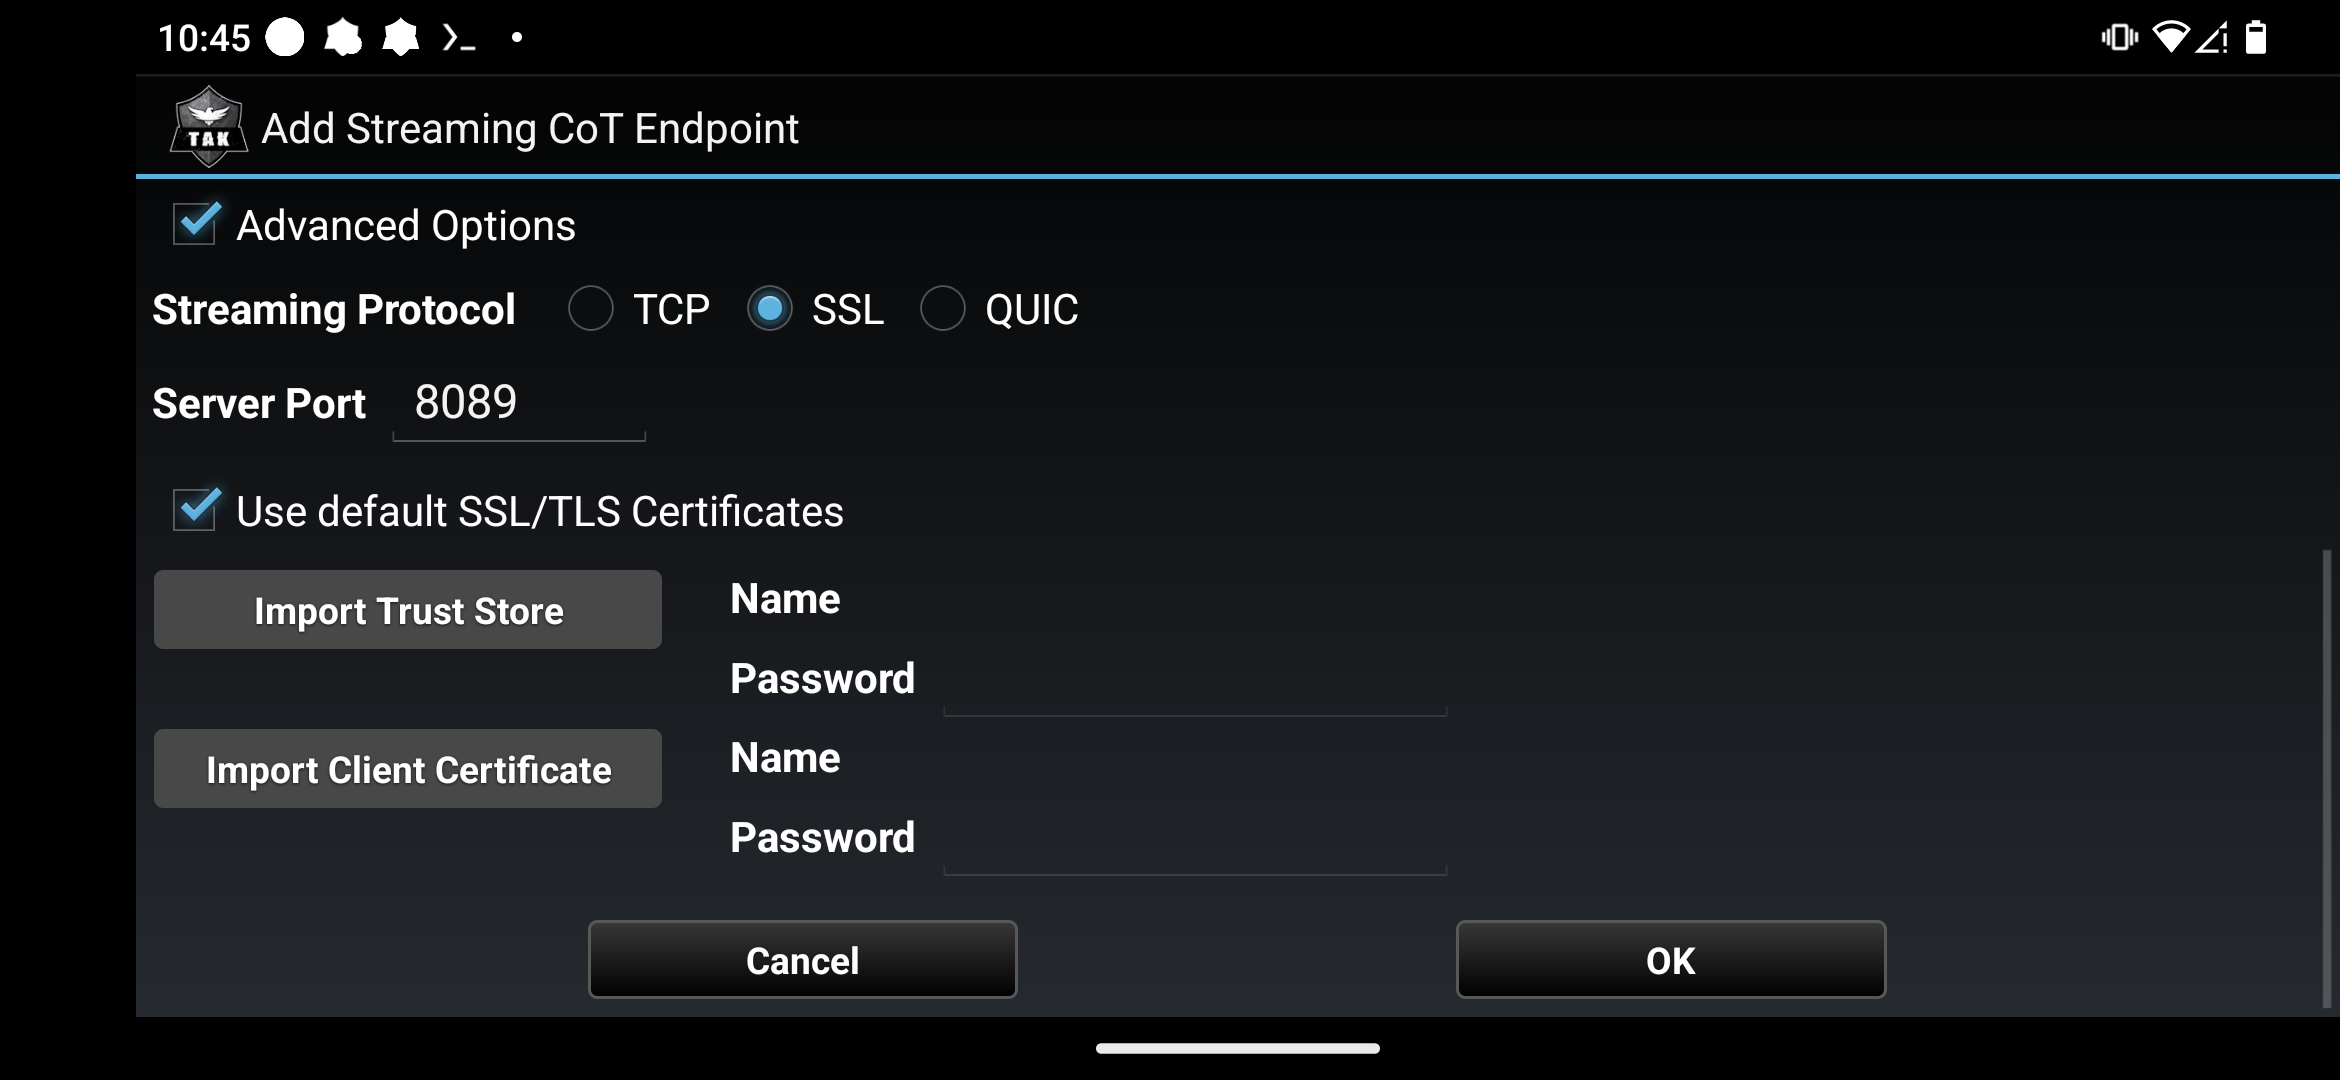
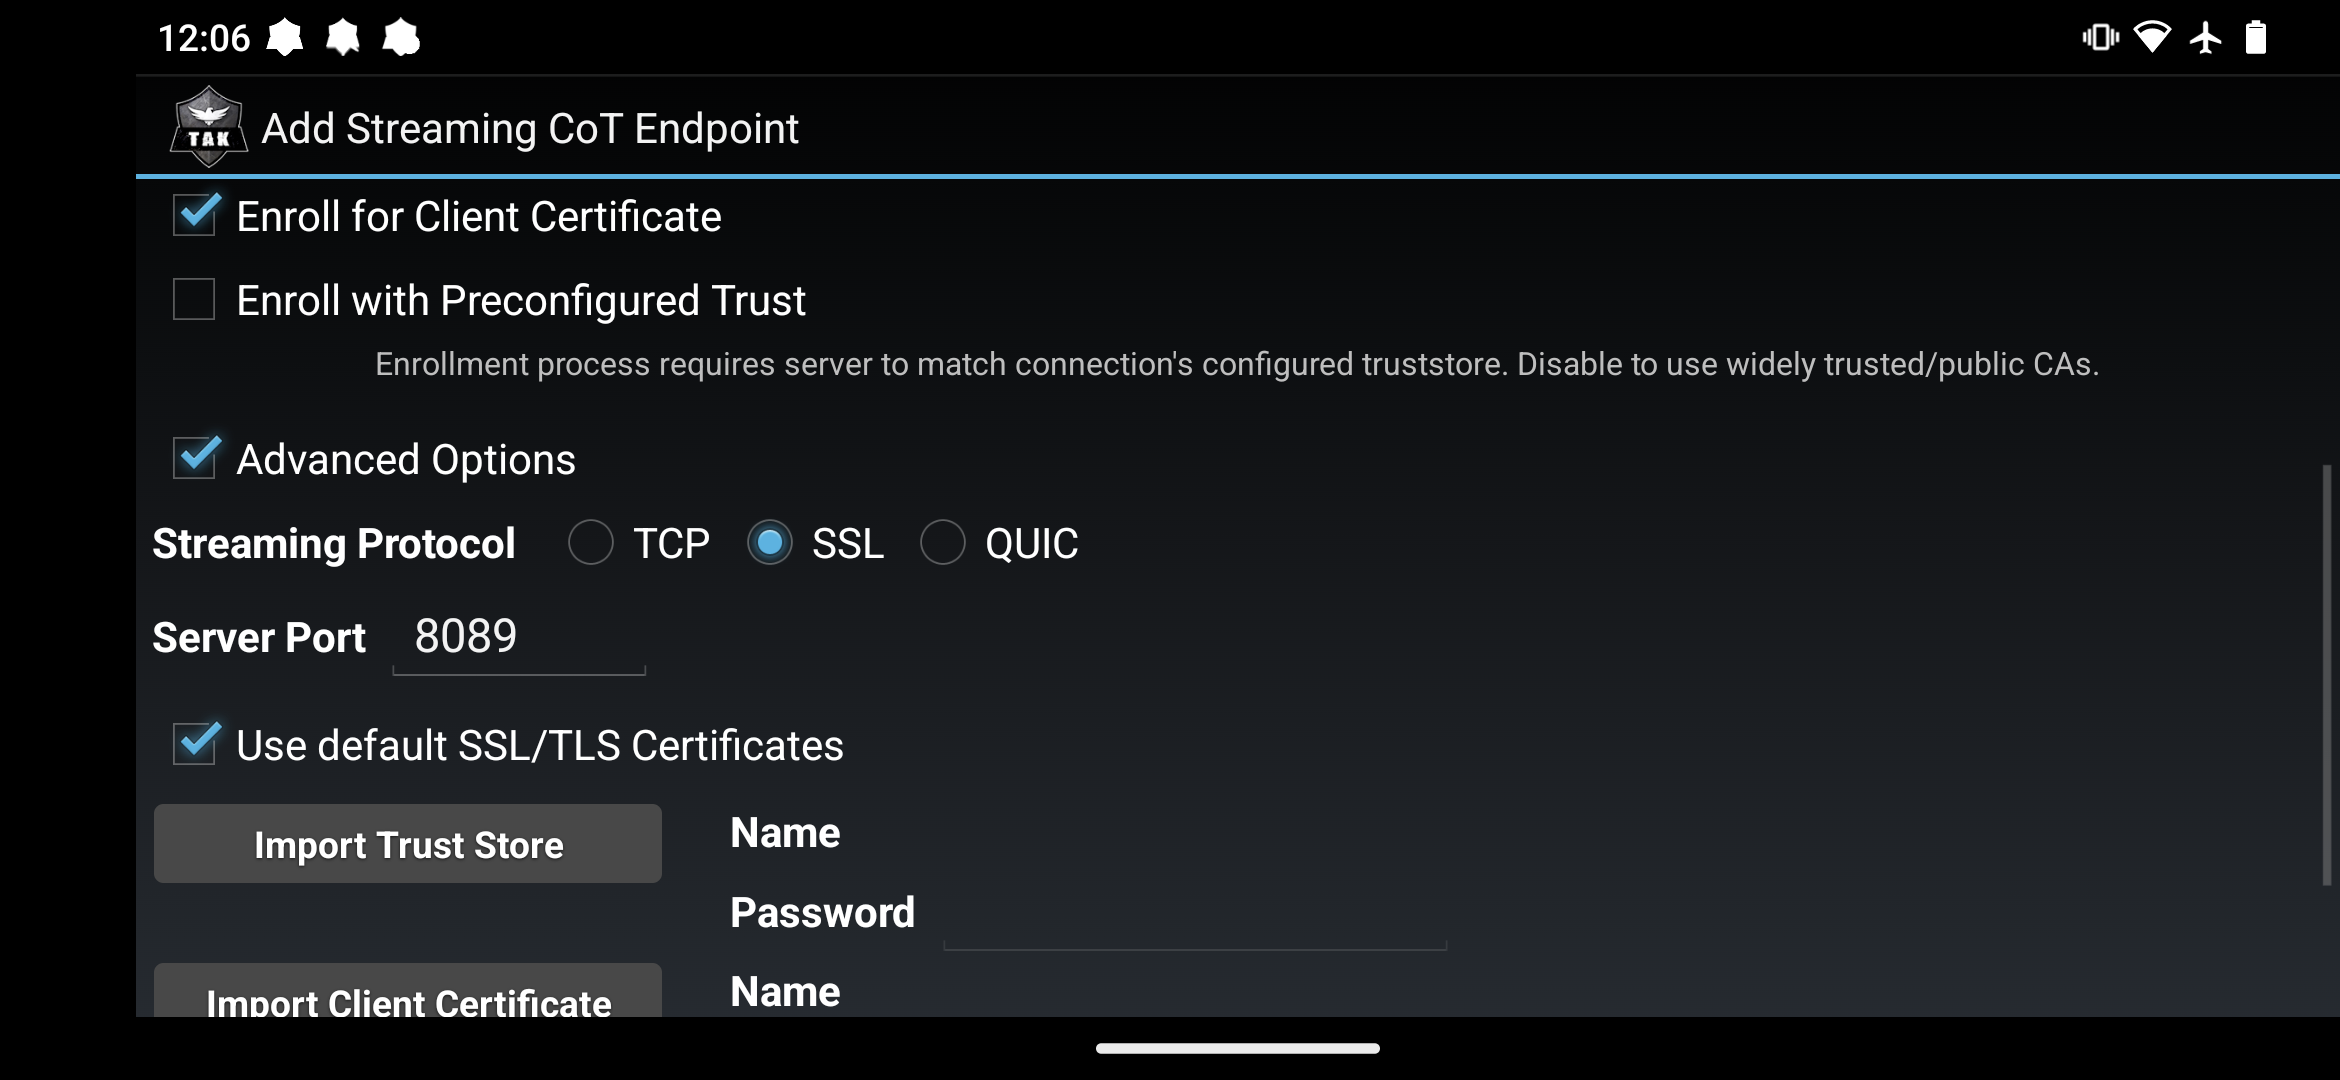
Updated certificate enrollment docs

diff --git a/docs/certificate_enrollment.md b/docs/certificate_enrollment.md
@@ -12,7 +12,7 @@ have an administrator make an account for you.
 The default port for certificate enrollment is `8446`. This port will use one of two types of certificates, self-signed 
 or Let's Encrypt. The default is to use self-signed certificates. If your server uses self-signed certificates, you will need
 a copy of your server's truststore certificate for auto-enrollment. You can download a copy at 
-`https://your_server_address/api/truststore`.
+`https://your_server_address/api/truststore` or by logging into the web UI and clicking the `Download Truststore` button.
 
 ## iTAK QR Code
 ***
@@ -34,13 +34,16 @@ or a similar trusted certificate authority.
 10. Use default SSL/TLS Certificates
     1. Self-signed certificates (This is the most common setup)
         1. If your OpenTAKServer is using self-signed certificates, uncheck `Use default SSL/TLS Certificates`
-        2. Tap the Import Trust Store button and find your trust store file.
-        3. In the password field next to that button, type your trust store certificate's password. The default is `atakatak`
-        4. Tap OK
+        2. Make sure that `Enroll with Preconfigured Trust` **IS** checked (you may not have this option if you're on an older version of ATAK)
+        3. Tap the Import Trust Store button and find your trust store file.
+        4. In the password field next to that button, type your trust store certificate's password. The default is `atakatak`
+        5. Tap OK
     2. Let's Encrypt Certificates
         1. Leave `Use default SSL/TLS Certificates` checked
+        2. Make sure that `Enroll with Preconfigured Trust` **IS NOT** checked (you may not have this option if you're on an older version of ATAK)
 11. Tap the `Ok` button at the bottom of the screen
 12. After a few seconds you should see a message that registration has succeeded, and you will be automatically connected to the server
+13. Any data packages, plugins, and device profiles that have been set by the server admin to install on enrollment will be automatically installed
 
 ### Screenshots
 

diff --git a/docs/lets_encrypt.md b/docs/lets_encrypt.md
@@ -21,14 +21,14 @@ sudo certbot certonly --standalone --preferred-challenges http -d your_domain_na
 
 Next change these following two lines in `/etc/nginx/sites-enabled/ots_certificate_enrollment` from this:
 
-```
+```shell
 ssl_certificate /home/your_username/ots/ca/certs/opentakserver/opentakserver.pem;
 ssl_certificate_key /home/your_username/ots/ca/certs/opentakserver/opentakserver.nopass.key;
 ```
 
 to this:
 
-```
+```shell
 ssl_certificate /etc/letsencrypt/live/your_domain_name.com/fullchain.pem;
 ssl_certificate_key /etc/letsencrypt/live/your_domain_name.com/privkey.pem;
 ```

diff --git a/docs/index.md b/docs/index.md
@@ -34,7 +34,7 @@ This is a new project under active development. Feel free to report any bugs or 
     - Watch video streams in ATAK's video tool, web browser, or video player such as VLC
     - Record streams
 - Upload data packages to share with other EUDs
-- Live stream ADS-B data from the free Airplanes.live API to EUDs
+- Live stream ADS-B and AIS data from the free Airplanes.live and AISHub.net APIs to EUDs
 - WebUI
 - Mumble Authentication 
     - Use your OpenTAKServer account to log into your Mumble server
